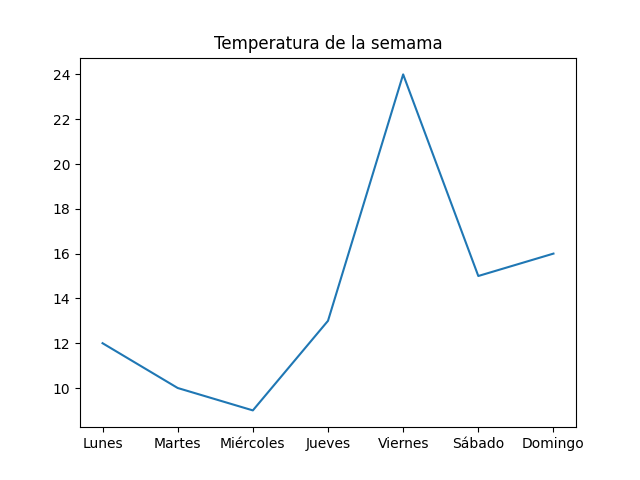
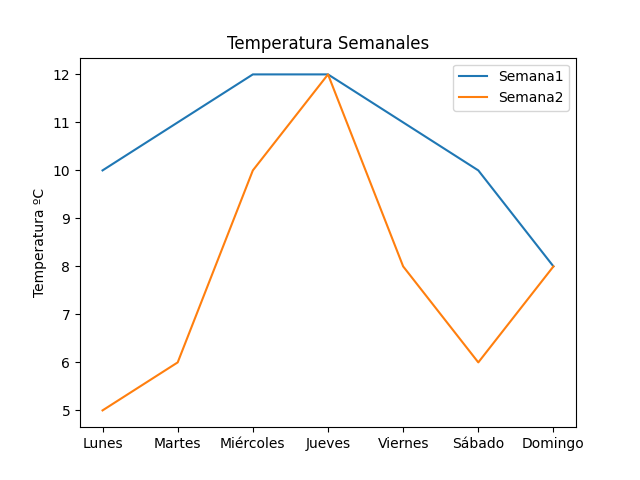
jueves06Mar graficos con consultas sql

diff --git a/grafico06temperatura.py b/grafico06temperatura.py
@@ -1,21 +1,22 @@
 import matplotlib.pyplot as plt
-#vamos apedir la temperatura de cada dia de la semama
-# pedimos los datos al ususario con input()
+# vamos apedir la temperatura de cada dia de la semama
+# pedimos los datos de temperatura al ususario con input()
 
 semana = ['Lunes', 'Martes', 'Miércoles', 'Jueves', 'Viernes', 'Sábado','Domingo']
 temperatura=[]
-row=1
-
 
 for dia in semana:
     # Pedir al usuario que ingrese la temperatura
-    print("Ingresa la temperatura para {semana[row]}: ")
+    print(f"Ingresa la temperatura para el {dia}")
     temp = int(input())
-    # Agregar la temperatura a la lista
-    temperatura.append(temp)
-    row=row+1
+    temperatura.append(temp) # Agrega la temperatura a la lista
     
-plt.plot(semana,temperatura)
-plt.title(f"Temperatura de la semama")
+plt.plot(semana,temperatura, label="Semana1")
+# Podemos incluir mas datos dentro del gráfico lineal siempre que demos un label a cada plot
+temperatura2=[5,6,10,12,8,6,8]
+plt.plot(semana, temperatura2, label="Semana2")
+plt.title(f"Temperatura Semanales")
+plt.ylabel("Temperatura ºC")
+plt.legend()
 plt.savefig("imagenes/linea_temperatura.png")
 plt.show()

diff --git a/grafico08piehospitaldoctores.py b/grafico08piehospitaldoctores.py
@@ -1,0 +1,25 @@
+import oracledb
+import matplotlib.pyplot as plt
+
+print ("Graficos con DOCTORES-HOSPITAL")
+hospital=[]
+doctores=[]
+connection=connection = oracledb.connect(user='SYSTEM', password='oracle', dsn='localhost/xe')  
+sql=("""
+select h.nombre, count(d.doctor_no) from doctor d 
+join hospital h on h.hospital_cod= d.hospital_cod
+group by h.nombre
+""")
+cursor=connection.cursor()
+cursor.execute(sql)
+for row in cursor:
+    hospital.append(row[0])
+    doctores.append(row[1])
+cursor.close()
+connection.close()
+
+#plt.pie (doctores, labels=hospital)
+plt.pie(doctores, labels=hospital, autopct='%1.1f%%', startangle=140,)
+plt.title(f"HOSPITAL-DOCTORES")
+plt.savefig("imagenes/pie_hospitaldoctores.png")
+plt.show()

diff --git a/grafico07pieoficioempleo.py b/grafico07pieoficioempleo.py
@@ -1,0 +1,22 @@
+import oracledb
+import matplotlib.pyplot as plt
+
+print ("Graficos con BBDD")
+oficios=[]
+media_salarios=[]
+connection=connection = oracledb.connect(user='SYSTEM', password='oracle', dsn='localhost/xe')  
+sql=("select oficio, avg(salario)as Media_Salario from emp group by oficio")
+cursor=connection.cursor()
+cursor.execute(sql)
+for row in cursor:
+    oficios.append(row[0])
+    media_salarios.append(row[1])
+cursor.close()
+connection.close()
+
+plt.pie (media_salarios, labels=oficios)
+plt.title(f"MEDIA SALARIAL")
+plt.savefig("imagenes/pie_mediasalarial.png")
+plt.show()
+
+
